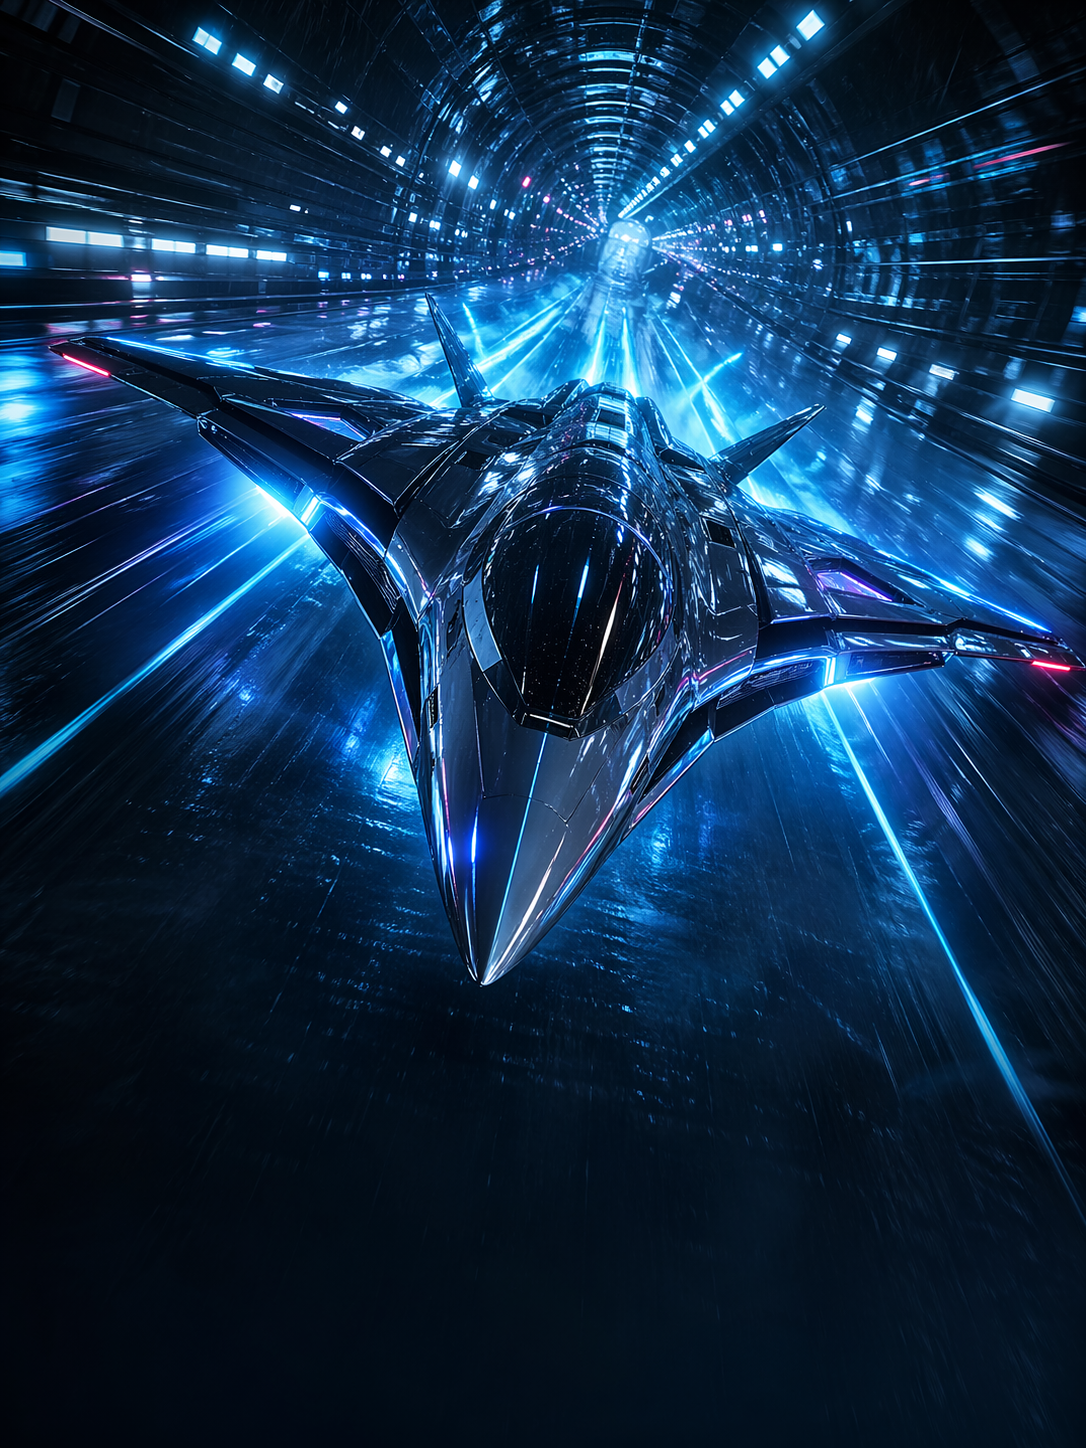
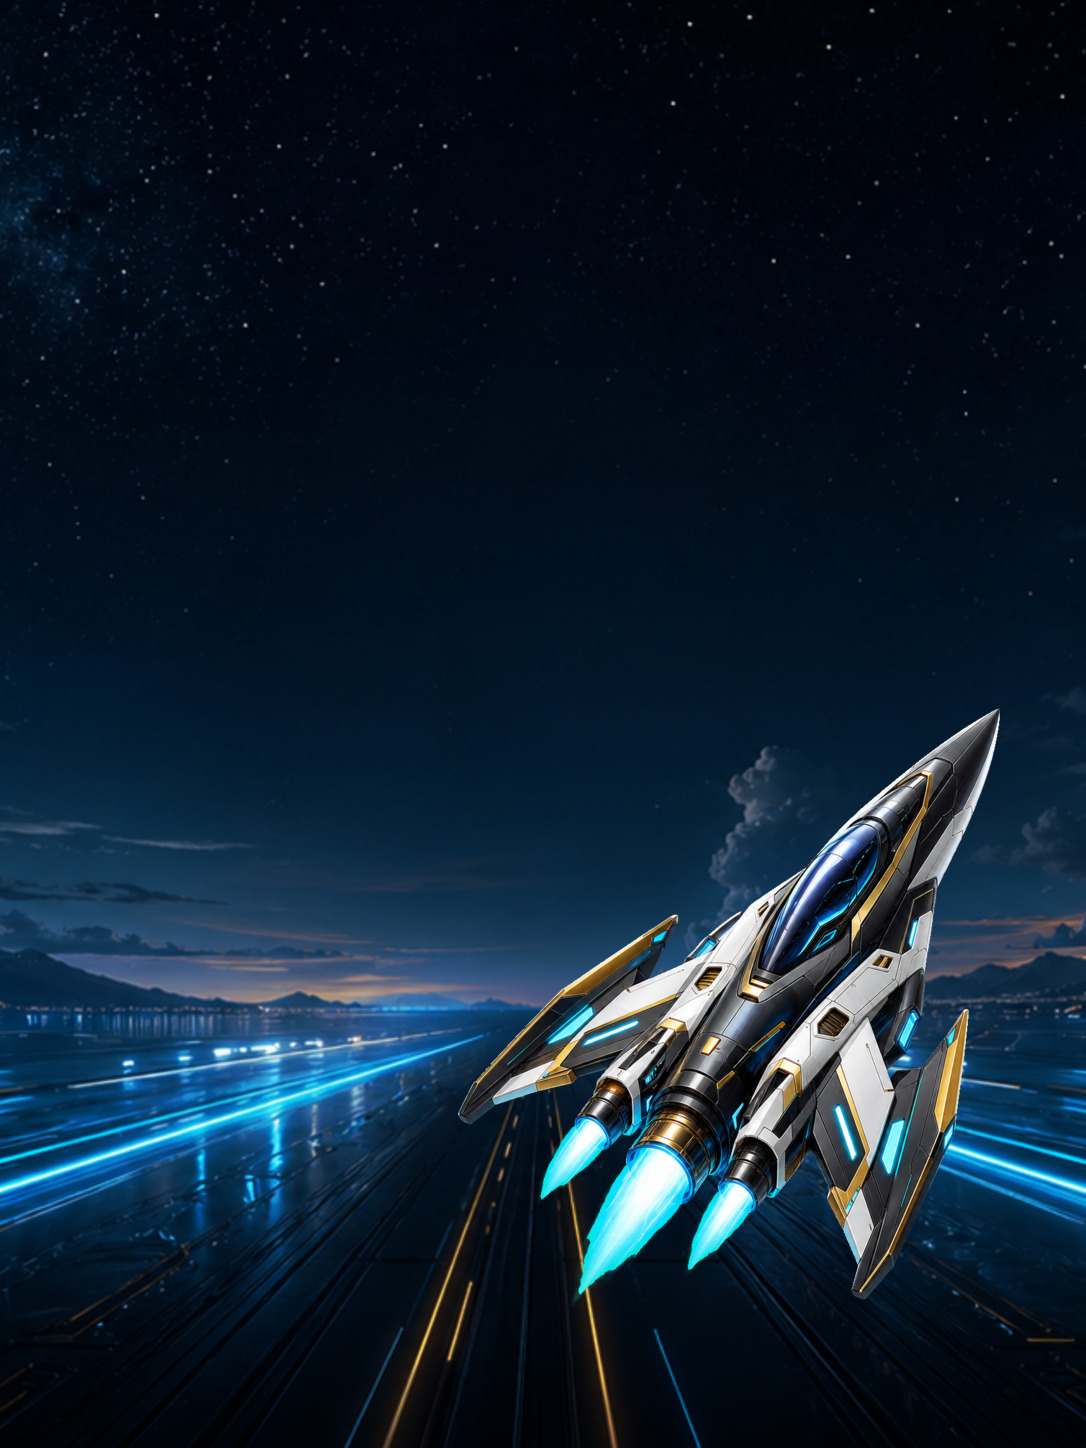
Replace crash game scene assets

diff --git a/apps/web/src/games/crash/CrashScene.ts b/apps/web/src/games/crash/CrashScene.ts
@@ -1,9 +1,12 @@
 import {
   Application,
+  Assets,
   Container,
   Graphics,
+  Sprite,
   Text,
   TextStyle,
+  Texture,
   Ticker,
   BlurFilter,
 } from 'pixi.js';
@@ -35,7 +38,59 @@ const COLOR_ICE = 0x266F85;
 const COLOR_AMBER = 0xF3D67D;
 const COLOR_WHITE = 0xFFFFFF;
 
-export type CrashVariant = 'rocket' | 'aviator' | 'balloon' | 'jet' | 'fleet' | 'default';
+export type CrashVariant =
+  | 'rocket'
+  | 'aviator'
+  | 'balloon'
+  | 'jet'
+  | 'fleet'
+  | 'jet3'
+  | 'double'
+  | 'plinko'
+  | 'default';
+
+const ASSET_VARIANT: Record<CrashVariant, Exclude<CrashVariant, 'default'>> = {
+  rocket: 'rocket',
+  aviator: 'aviator',
+  balloon: 'balloon',
+  jet: 'jet',
+  fleet: 'fleet',
+  jet3: 'jet3',
+  double: 'double',
+  plinko: 'plinko',
+  default: 'rocket',
+};
+
+const BACKGROUND_ASSETS: Record<Exclude<CrashVariant, 'default'>, string> = {
+  rocket: '/crash/backgrounds/rocket.jpg',
+  aviator: '/crash/backgrounds/aviator.jpg',
+  balloon: '/crash/backgrounds/balloon.jpg',
+  jet: '/crash/backgrounds/jet.jpg',
+  fleet: '/crash/backgrounds/fleet.jpg',
+  jet3: '/crash/backgrounds/jet3.jpg',
+  double: '/crash/backgrounds/double.jpg',
+  plinko: '/crash/backgrounds/plinko.jpg',
+};
+
+const CRAFT_ASSETS: Record<Exclude<CrashVariant, 'default'>, string> = {
+  rocket: '/crash/craft/rocket.png',
+  aviator: '/crash/craft/aviator.png',
+  balloon: '/crash/craft/balloon.png',
+  jet: '/crash/craft/jet.png',
+  fleet: '/crash/craft/fleet.png',
+  jet3: '/crash/craft/jet3.png',
+  double: '/crash/craft/double.png',
+  plinko: '/crash/craft/plinko.png',
+};
+
+function fitSpriteCover(sprite: Sprite, width: number, height: number): void {
+  const textureWidth = sprite.texture.width || width;
+  const textureHeight = sprite.texture.height || height;
+  const scale = Math.max(width / textureWidth, height / textureHeight);
+  sprite.scale.set(scale);
+  sprite.x = (width - textureWidth * scale) / 2;
+  sprite.y = (height - textureHeight * scale) / 2;
+}
 
 interface Particle {
   g: Graphics;
@@ -68,6 +123,8 @@ export class CrashScene {
   private particles: Container | null = null;
   private overlayGlow: Graphics | null = null;
   private flashOverlay: Graphics | null = null;
+  private backgroundTexture: Texture | null = null;
+  private craftTexture: Texture | null = null;
 
   // Text
   private multiplierLabel: Text | null = null;
@@ -126,6 +183,7 @@ export class CrashScene {
       height: this.height,
     });
 
+    await this.preloadVariantAssets();
     this.createBackground();
     this.starfield = new Container();
     app.stage.addChild(this.starfield);
@@ -171,28 +229,59 @@ export class CrashScene {
     this.startTickers();
   }
 
+  private async preloadVariantAssets(): Promise<void> {
+    const assetVariant = ASSET_VARIANT[this.variant];
+    const [backgroundTexture, craftTexture] = await Promise.all([
+      Assets.load<Texture>(BACKGROUND_ASSETS[assetVariant]).catch(() => null),
+      Assets.load<Texture>(CRAFT_ASSETS[assetVariant]).catch(() => null),
+    ]);
+    this.backgroundTexture = backgroundTexture;
+    this.craftTexture = craftTexture;
+  }
+
   private createBackground(): void {
     if (!this.app) return;
-    // Dark gradient background (crash 需要深色襯托 neon)
-    const bg = new Graphics();
-    // 用多層圓同心模擬漸層
-    const steps = 10;
-    for (let i = 0; i < steps; i += 1) {
-      const alpha = (i / steps) * 0.4;
-      const w = this.width - i * 8;
-      const h = this.height - i * 8;
-      bg.rect((this.width - w) / 2, (this.height - h) / 2, w, h).fill({
-        color: COLOR_BG_A,
-        alpha: alpha * 0.15,
-      });
-    }
-    bg.rect(0, 0, this.width, this.height).fill({ color: COLOR_BG_B, alpha: 0.85 });
-    this.app.stage.addChild(bg);
 
-    // 徑向光暈（紫色核心）
+    const base = new Graphics().rect(0, 0, this.width, this.height).fill({
+      color: COLOR_BG_B,
+      alpha: 0.96,
+    });
+    this.app.stage.addChild(base);
+
+    if (this.backgroundTexture) {
+      const bgSprite = new Sprite(this.backgroundTexture);
+      fitSpriteCover(bgSprite, this.width, this.height);
+      bgSprite.alpha = 0.92;
+      this.app.stage.addChild(bgSprite);
+    } else {
+      const fallback = new Graphics();
+      const steps = 10;
+      for (let i = 0; i < steps; i += 1) {
+        const alpha = (i / steps) * 0.4;
+        const w = this.width - i * 8;
+        const h = this.height - i * 8;
+        fallback.rect((this.width - w) / 2, (this.height - h) / 2, w, h).fill({
+          color: COLOR_BG_A,
+          alpha: alpha * 0.15,
+        });
+      }
+      this.app.stage.addChild(fallback);
+    }
+
+    const shade = new Graphics()
+      .rect(0, 0, this.width, this.height)
+      .fill({ color: 0x020817, alpha: 0.3 });
+    this.app.stage.addChild(shade);
+
+    const centerReadability = new Graphics()
+      .ellipse(this.width * 0.5, this.height * 0.5, this.width * 0.32, this.height * 0.28)
+      .fill({ color: 0x020817, alpha: 0.36 });
+    centerReadability.filters = [new BlurFilter({ strength: 46 })];
+    this.app.stage.addChild(centerReadability);
+
     const glow = new Graphics()
-      .circle(this.width * 0.5, this.height * 0.5, this.width * 0.5)
-      .fill({ color: COLOR_ACID, alpha: 0.15 });
+      .circle(this.width * 0.5, this.height * 0.5, this.width * 0.45)
+      .fill({ color: COLOR_ACID, alpha: 0.08 });
     glow.filters = [new BlurFilter({ strength: 60 })];
     this.app.stage.addChild(glow);
 
@@ -211,7 +300,7 @@ export class CrashScene {
       grid.moveTo(x, 0).lineTo(x, this.height).stroke({
         color: COLOR_ACID,
         width: 1,
-        alpha: 0.05,
+        alpha: 0.035,
       });
     }
     for (let i = 0; i <= rows; i += 1) {
@@ -219,7 +308,7 @@ export class CrashScene {
       grid.moveTo(0, y).lineTo(this.width, y).stroke({
         color: COLOR_ACID,
         width: 1,
-        alpha: 0.05,
+        alpha: 0.035,
       });
     }
     this.app.stage.addChild(grid);
@@ -286,6 +375,16 @@ export class CrashScene {
     craft.y = this.height - 60;
     this.craft = craft;
     this.craftContainer.addChild(craft);
+
+    if (this.craftTexture) {
+      const sprite = new Sprite(this.craftTexture);
+      sprite.anchor.set(0.5);
+      const targetSize = Math.min(118, Math.max(74, this.height * 0.26));
+      const baseSize = Math.max(sprite.texture.width, sprite.texture.height);
+      sprite.scale.set(targetSize / baseSize);
+      craft.addChild(sprite);
+      return;
+    }
 
     this.drawCraftShape(craft);
   }

diff --git a/apps/web/src/pages/games/CrashPage.tsx b/apps/web/src/pages/games/CrashPage.tsx
@@ -553,7 +553,7 @@ export const CRASH_CONFIGS: Record<string, CrashGameConfig> = {
   'space-fleet': { gameId: 'space-fleet', breadcrumb: 'FLEET_12', section: '§ GAME 12', accent: 'ice', glyph: '✺', variant: 'fleet' },
   jetx: { gameId: 'jetx', breadcrumb: 'JETX_13', section: '§ GAME 13', accent: 'acid', glyph: '◢', variant: 'jet' },
   balloon: { gameId: 'balloon', breadcrumb: 'BALLOON_14', section: '§ GAME 14', accent: 'ember', glyph: '◯', variant: 'balloon' },
-  jetx3: { gameId: 'jetx3', breadcrumb: 'JETX3_15', section: '§ GAME 15', accent: 'toxic', glyph: '⧨', variant: 'jet' },
-  'double-x': { gameId: 'double-x', breadcrumb: 'DOUBLEX_16', section: '§ GAME 16', accent: 'ice', glyph: '⊞', variant: 'default' },
-  'plinko-x': { gameId: 'plinko-x', breadcrumb: 'PLINKOX_17', section: '§ GAME 17', accent: 'acid', glyph: '▼', variant: 'default' },
+  jetx3: { gameId: 'jetx3', breadcrumb: 'JETX3_15', section: '§ GAME 15', accent: 'toxic', glyph: '⧨', variant: 'jet3' },
+  'double-x': { gameId: 'double-x', breadcrumb: 'DOUBLEX_16', section: '§ GAME 16', accent: 'ice', glyph: '⊞', variant: 'double' },
+  'plinko-x': { gameId: 'plinko-x', breadcrumb: 'PLINKOX_17', section: '§ GAME 17', accent: 'acid', glyph: '▼', variant: 'plinko' },
 };
